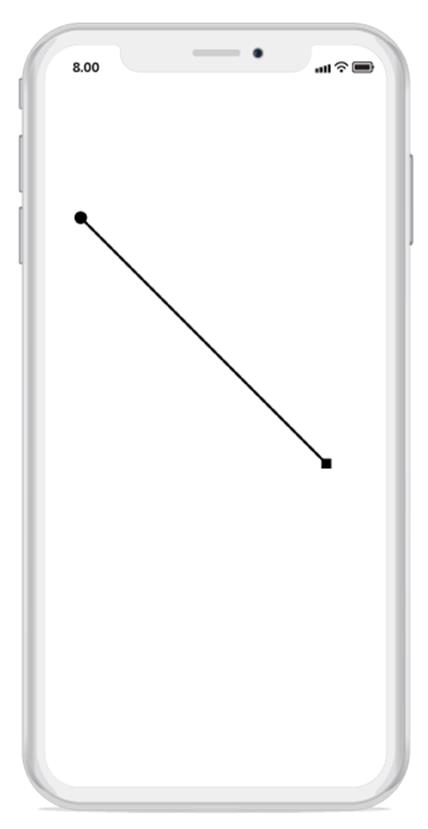
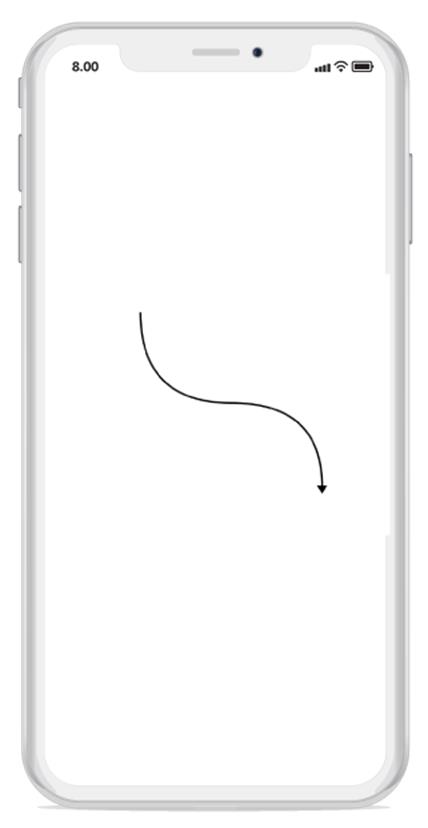
Added SfDiagram new feature document into Xamarin.iOS.

diff --git a/xamarin-ios-toc.html b/xamarin-ios-toc.html
@@ -198,6 +198,8 @@
 			<li><a href="/xamarin-ios/sfdiagram/port">Port</a></li>
             <li><a href="/xamarin-ios/sfdiagram/stencil">Stencil</a></li>
 			<li><a href="/xamarin-ios/sfdiagram/layout">Layout</a></li>
+			 <li><a href="/xamarin-ios/sfdiagram/Mindmap">Mindmap</a></li>
+			<li><a href="/xamarin-ios/sfdiagram/Userhandle">Userhandle</a></li>
         </ul>
     </li>
     <li>

diff --git a/Xamarin-iOS/SfDiagram/Minmap.md b/Xamarin-iOS/SfDiagram/Minmap.md
@@ -1,0 +1,159 @@
+---
+title: Add mindmap for diagram
+description: Learn how to add mindmap in diagram
+platform: Xamarin.iOS
+control: SfDiagram
+documentation: UG
+keywords: 
+---
+# Mind map layout
+A mind map is a diagram used to visually organize the information. It is hierarchical and shows relationship of the whole idea. It consists of a central ideas, related ideas, and lines connecting them together.  It is used for brainstorming, planning, and information gathering etc. The following code example illustrates how to create and mind map layout:
+{% tabs %}
+{% highlight c# %}
+List<UIColor> FColor = new List<UIColor>();
+List<UIColor > SColor = new List<UIColor>();
+Random random = new Random();
+int index;
+int width = 150; int height = 75;
+//Add root node
+var node = AddNode(300, 400, width, height, "Goals");
+AddNodeStyle(node, UIColor.Blue, UIColor.Black);
+diagram.AddNode(node);
+
+SColor.Add(UIColor.Blue);
+SColor.Add(UIColor.Brown);
+SColor.Add(UIColor.Cyan);
+SColor.Add(UIColor.Gray);
+SColor.Add(UIColor.Green);
+SColor.Add(UIColor.Magenta);
+FColor.Add(UIColor.LightTextColor);
+FColor.Add(UIColor.Orange);
+FColor.Add(UIColor.Purple);
+FColor.Add(UIColor.Orange);
+FColor.Add(UIColor.Yellow);
+FColor.Add(UIColor.Red);
+
+//Add child nodes for root node
+var ch1node = AddNode(100, 100, width, height, "Financial");
+index = random.Next(5);
+AddNodeStyle(ch1node, FColor[index], SColor[index]);
+diagram.AddNode(ch1node);
+
+var ch1childnode = AddNode(100, 100, width, height, "Investment");
+AddNodeStyle(ch1childnode, (ch1node.Style.Brush as SolidBrush).FillColor, (ch1node.Style.StrokeBrush as SolidBrush).FillColor);
+diagram.AddNode(ch1childnode);
+
+var ch2node = AddNode(100, 600, width, height, "Social");
+index = random.Next(5);
+AddNodeStyle(ch2node, FColor[index], SColor[index]);
+diagram.AddNode(ch2node);
+
+var ch2childnode1 = AddNode(100, 100, width, height, "Friends");
+AddNodeStyle(ch2childnode1, (ch2node.Style.Brush as SolidBrush).FillColor, (ch2node.Style.StrokeBrush as SolidBrush).FillColor);
+diagram.AddNode(ch2childnode1);
+
+var ch2childnode2 = AddNode(100, 100, width, height, "Family");
+AddNodeStyle(ch2childnode2, (ch2node.Style.Brush as SolidBrush).FillColor, (ch2node.Style.StrokeBrush as SolidBrush).FillColor);
+diagram.AddNode(ch2childnode2);
+
+var ch3node = AddNode(500, 100, width, height, "Personal");
+index = random.Next(5);
+AddNodeStyle(ch3node, FColor[index], SColor[index]);
+diagram.AddNode(ch3node);
+
+var ch3childnode1 = AddNode(500, 100, width, height, "Sports");
+AddNodeStyle(ch3childnode1, (ch3node.Style.Brush as SolidBrush).FillColor, (ch3node.Style.StrokeBrush as SolidBrush).FillColor);
+diagram.AddNode(ch3childnode1);
+
+var ch3childnode2 = AddNode(500, 100, width, height, "Food");
+AddNodeStyle(ch3childnode2, (ch3node.Style.Brush as SolidBrush).FillColor, (ch3node.Style.StrokeBrush as SolidBrush).FillColor);
+diagram.AddNode(ch3childnode2);
+
+var ch4node = AddNode(500, 600, width, height, "Work");
+index = random.Next(5);
+AddNodeStyle(ch4node, FColor[index], SColor[index]);
+diagram.AddNode(ch4node);
+
+var ch4childnode1 = AddNode(500, 100, width, height, "Project");
+AddNodeStyle(ch4childnode1, (ch4node.Style.Brush as SolidBrush).FillColor, (ch4node.Style.StrokeBrush as SolidBrush).FillColor);
+diagram.AddNode(ch4childnode1);
+
+var ch4childnode2 = AddNode(500, 100, width, height, "Career");
+AddNodeStyle(ch4childnode2, (ch4node.Style.Brush as SolidBrush).FillColor, (ch4node.Style.StrokeBrush as SolidBrush).FillColor);
+diagram.AddNode(ch4childnode2);
+//Add connectors
+diagram.AddConnector(AddConnector(node, ch1node));
+diagram.AddConnector(AddConnector(node, ch2node));
+diagram.AddConnector(AddConnector(node, ch3node));
+diagram.AddConnector(AddConnector(node, ch4node));
+diagram.AddConnector(AddConnector(ch1node, ch1childnode));
+diagram.AddConnector(AddConnector(ch2node, ch2childnode1));
+diagram.AddConnector(AddConnector(ch2node, ch2childnode2));
+diagram.AddConnector(AddConnector(ch3node, ch3childnode1));
+diagram.AddConnector(AddConnector(ch3node, ch3childnode2));
+diagram.AddConnector(AddConnector(ch4node, ch4childnode1));
+diagram.AddConnector(AddConnector(ch4node, ch4childnode2));
+View.AddSubview(diagram);
+
+//Add connector method
+private Connector AddConnector(Node node, Node ch1node)
+        {
+            var c1 = new Connector();
+            c1.SourceNode = node;
+            c1.TargetNode = ch1node;
+            c1.Style.StrokeBrush = new SolidBrush((c1.TargetNode.Style.StrokeBrush as SolidBrush).FillColor);
+            c1.Style.StrokeStyle = StrokeStyle.Dashed;
+            c1.Style.StrokeWidth = 3;
+            c1.TargetDecoratorStyle.StrokeWidth = c1.TargetDecoratorStyle.StrokeWidth;
+            c1.TargetDecoratorStyle.Fill = (c1.TargetNode.Style.StrokeBrush as SolidBrush).FillColor;
+            c1.TargetDecoratorStyle.StrokeColor = (c1.TargetNode.Style.StrokeBrush as SolidBrush).FillColor;
+            c1.SegmentType = SegmentType.CurveSegment;
+            return c1;
+        }
+
+//Node style method
+        private void AddNodeStyle(Node node, UIColor fill, UIColor Stroke)
+        {
+            node.Style.Brush = new SolidBrush(fill);
+            node.Style.StrokeBrush = new SolidBrush(Stroke);
+        }
+
+//Add node method
+        Node AddNode(int x, int y, int w, int h, string text)
+        {
+            var node = new Node();
+            node.OffsetX = x; node.OffsetY = y;
+            node.Width = w; node.Height = h;
+            node.ShapeType = ShapeType.RoundedRectangle;
+            node.Style.StrokeWidth = 3;
+            node.Annotations.Add(new Annotation() { Content = text, FontSize = 14, TextBrush = new SolidBrush(UIColor.Black) });
+            return node;
+        }
+{% endhighlight %}
+{% endtabs %}
+
+## Initializing the mind map layout
+The following code illustrates how to initialize the mind map layout in diagram loaded event:
+{% tabs %}
+{% highlight c# %}
+//Diagram loaded event
+diagram.Loaded += Diagram_Loaded;
+
+private void Diagram_Loaded(object sender)
+{
+      diagram.LayoutManager = new LayoutManager()
+      {
+         Layout = new MindMapLayout()
+         {
+            MindMapOrientation = Orientation.Horizontal,
+            HorizontalSpacing = 70,
+         }
+      };
+      //Updating the layout
+      diagram.LayoutManager.Layout.UpdateLayout();
+}
+
+{% endhighlight %}
+{% endtabs %}
+![](Minmap_images/Minmap_img1.jpeg)
+

diff --git a/Xamarin-iOS/SfDiagram/Connector.md b/Xamarin-iOS/SfDiagram/Connector.md
@@ -9,8 +9,8 @@ keywords:
 # Connector
 The connectors are objects used to create link between two points. Nodes or ports are used to represent the relationship between them.
 
-## Create Connector
-The connector can be created by defining the start and end points.
+## Create connector
+The connector can be created by defining start and end points.
 {% tabs %}
 {% highlight c# %}
 // creating connector instance
@@ -23,7 +23,7 @@ diagram.AddConnector(connector1);
 {% endhighlight %}
 {% endtabs %}
 
-## Connections with Nodes
+## Connections with nodes
 The SourceNode and TargetNode properties allows to define the nodes to be connected. The following code example illustrates how to connect two nodes:
 {% tabs %}
 {% highlight c# %}
@@ -43,10 +43,10 @@ diagram.AddConnector(connector1);
 {% endtabs %}
 ![](Connector_images/Connector_img1.jpeg)
 
-## Connections with Ports
+## Connections with ports
 The SourcePort and TargetPort properties allows to create connections between some specific points of source or target nodes. 
 
-## Using Port
+## Using port
 The following code example illustrates how to create and connect the ports: 
 {% tabs %}
 {% highlight c# %}
@@ -112,6 +112,22 @@ diagram.AddConnector(connector1);
 {% endtabs %}
 ![](Connector_images/Connector_img4.jpeg)
 
+## Curve
+Curve segments are used to create links between two points, nodes, or ports with curve segments. The following code example illustrates how to create a default curve segment.
+{% tabs %}
+{% highlight c# %}
+// creating connector instance with define its segment type
+var connector1 = new Connector()
+{
+SourcePoint=new CGPoint(100,100),
+TargetPoint=new CGPoint(300,300),
+SegmentType= SegmentType.CurveSegment;
+};
+diagram.AddConnector(connector1);
+{% endhighlight %}
+{% endtabs %}
+![](Connector_images/Connector_img5.jpeg)
+
 ## Decorator
 The start and end points of a connector can be decorated with some customizable shapes like arrow, circle, diamond, and square. You can decorate the connection end points with the SourceDecorator and TargetDecorator properties of connector.
 The SourceDecoratorStyle and TargetDecoratorStyle properties define the shape of the decorators. The following code example illustrates how to create decorators of various shapes:
@@ -129,11 +145,11 @@ SegmentType= SegmentType.StraightSegment
 diagram.AddConnector(connector1);
 {% endhighlight %}
 {% endtabs %}
-![](Connector_images/Connector_img5.jpeg)
+![](Connector_images/Connector_img6.jpeg)
 
-## Remove Connector
-There are two ways to remove connector from the connection, they are the following:
-1.Passing the connector as parameter to remove connector method in the diagram.
+## Remove connector
+There are two ways to remove connector from the connection, they are:
+1. Passing the connector as parameter to remove connector method in the diagram.
 The following code example illustrates how to remove a connector from the connection:
 {% tabs %}
 {% highlight c# %}
@@ -149,7 +165,7 @@ diagram.AddConnector(connector1);
 diagram.RemoveConnector(connector1);
 {% endhighlight %}
 {% endtabs %}
-2.Passing the index value of the connector to remove connector method in the diagram (using RemoveAt method).
+2. Passing the index value of the connector to remove connector method in the diagram (using RemoveAt method).
 The following code example illustrates how to remove a connector from connection:
 {% tabs %}
 {% highlight c# %}
@@ -167,9 +183,9 @@ diagram.Connectors.RemoveAt(0);
 {% endtabs %}
 
 ## Appearance
-The StrokeThickness, Stroke are the set of properties. The style of line connectors and decorators can be customized with that properties.
+The StrokeThickness, stroke are the set of properties. The style of line connectors and decorators can be customized with that properties.
 
-## Connector Appearance
+##  Connector appearance
 The following code example illustrates how to customize the connector appearance:
 {% tabs %}
 {% highlight c# %}
@@ -190,9 +206,9 @@ StrokeWidth = 4
 diagram.AddConnector(connector1);
 {% endhighlight %}
 {% endtabs %}
-![](Connector_images/Connector_img6.jpeg)
+![](Connector_images/Connector_img7.jpeg)
 
-## Decorator Appearance
+## Decorator appearance
 The following code example illustrates how to customize the appearance of the decorator:
 {% tabs %}
 {% highlight c# %}
@@ -224,5 +240,5 @@ Size = 12
 diagram.AddConnector(connector1);
 {% endhighlight %}
 {% endtabs %}
-![](Connector_images/Connector_img7.jpeg)
+![](Connector_images/Connector_img8.jpeg)
 

diff --git a/Xamarin-iOS/SfDiagram/Userhandle.md b/Xamarin-iOS/SfDiagram/Userhandle.md
@@ -1,0 +1,60 @@
+---
+title: Adding userhadles for diagram
+description: Learn how to add userhandles in diagram
+platform: Xamarin.iOS
+control: SfDiagram
+documentation: UG
+keywords: 
+---
+# User handles
+User handles are customizable handles which can be used to perform custom actions and also default clipboard actions. You can able to customize the user handles using:
+* SfGraphicPath
+* Image
+* UIView
+The following code illustrates how to add custom user handle in diagram:
+{% tabs %}
+{% highlight c# %}
+//Add Graphic path into custom handle
+SfGraphics graph = new SfGraphics();
+Pen stroke = new Pen();
+stroke.Brush = new SolidBrush(UIColor.Clear);
+stroke.StrokeWidth = 3;
+stroke.StrokeBrush = new SolidBrush(UIColor.FromRGB(24, 161, 237));
+graph.DrawEllipse(stroke, new System.Drawing.Rectangle(10, 0, 20, 20));
+graph.DrawArc(stroke, 0, 20, 40, 40, 180, 180);
+
+//Add image into custom handle
+var image = new UIImageView(UIImage.FromBundle("delete.png"));
+image.BackgroundColor = UIColor.Clear;
+
+//Add UIView into custom handle
+diagram.UserHandles.Add(new UserHandle("UIView", UserHandlePosition.Left, new UIView() { BackgroundColor = UIColor.Purple }));
+
+diagram.UserHandles.Add(new UserHandle("delete", UserHandlePosition.Bottom, image) { });
+
+diagram.UserHandles.Add(new UserHandle("right", UserHandlePosition.Right,graph){ });
+
+
+{% endhighlight %}
+{% endtabs %}
+
+## User handles clicked event
+The following code illustrate how to define user handles clicked event and its action.
+{% tabs %}
+{% highlight c# %}
+//User handles clicked event
+diagram.UserHandleClicked += Diagram_UserHandleClicked;
+
+private void Diagram_UserHandleClicked(object sender, UserHandleClickedEventArgs args)
+{
+     // Delete custom handle action
+     if (args.Item.Name == "delete")
+     {
+        diagram.Delete();
+    }
+}
+
+{% endhighlight %}
+{% endtabs %}
+![](Userhandle_images/Userhandle_img1.jpeg)
+
